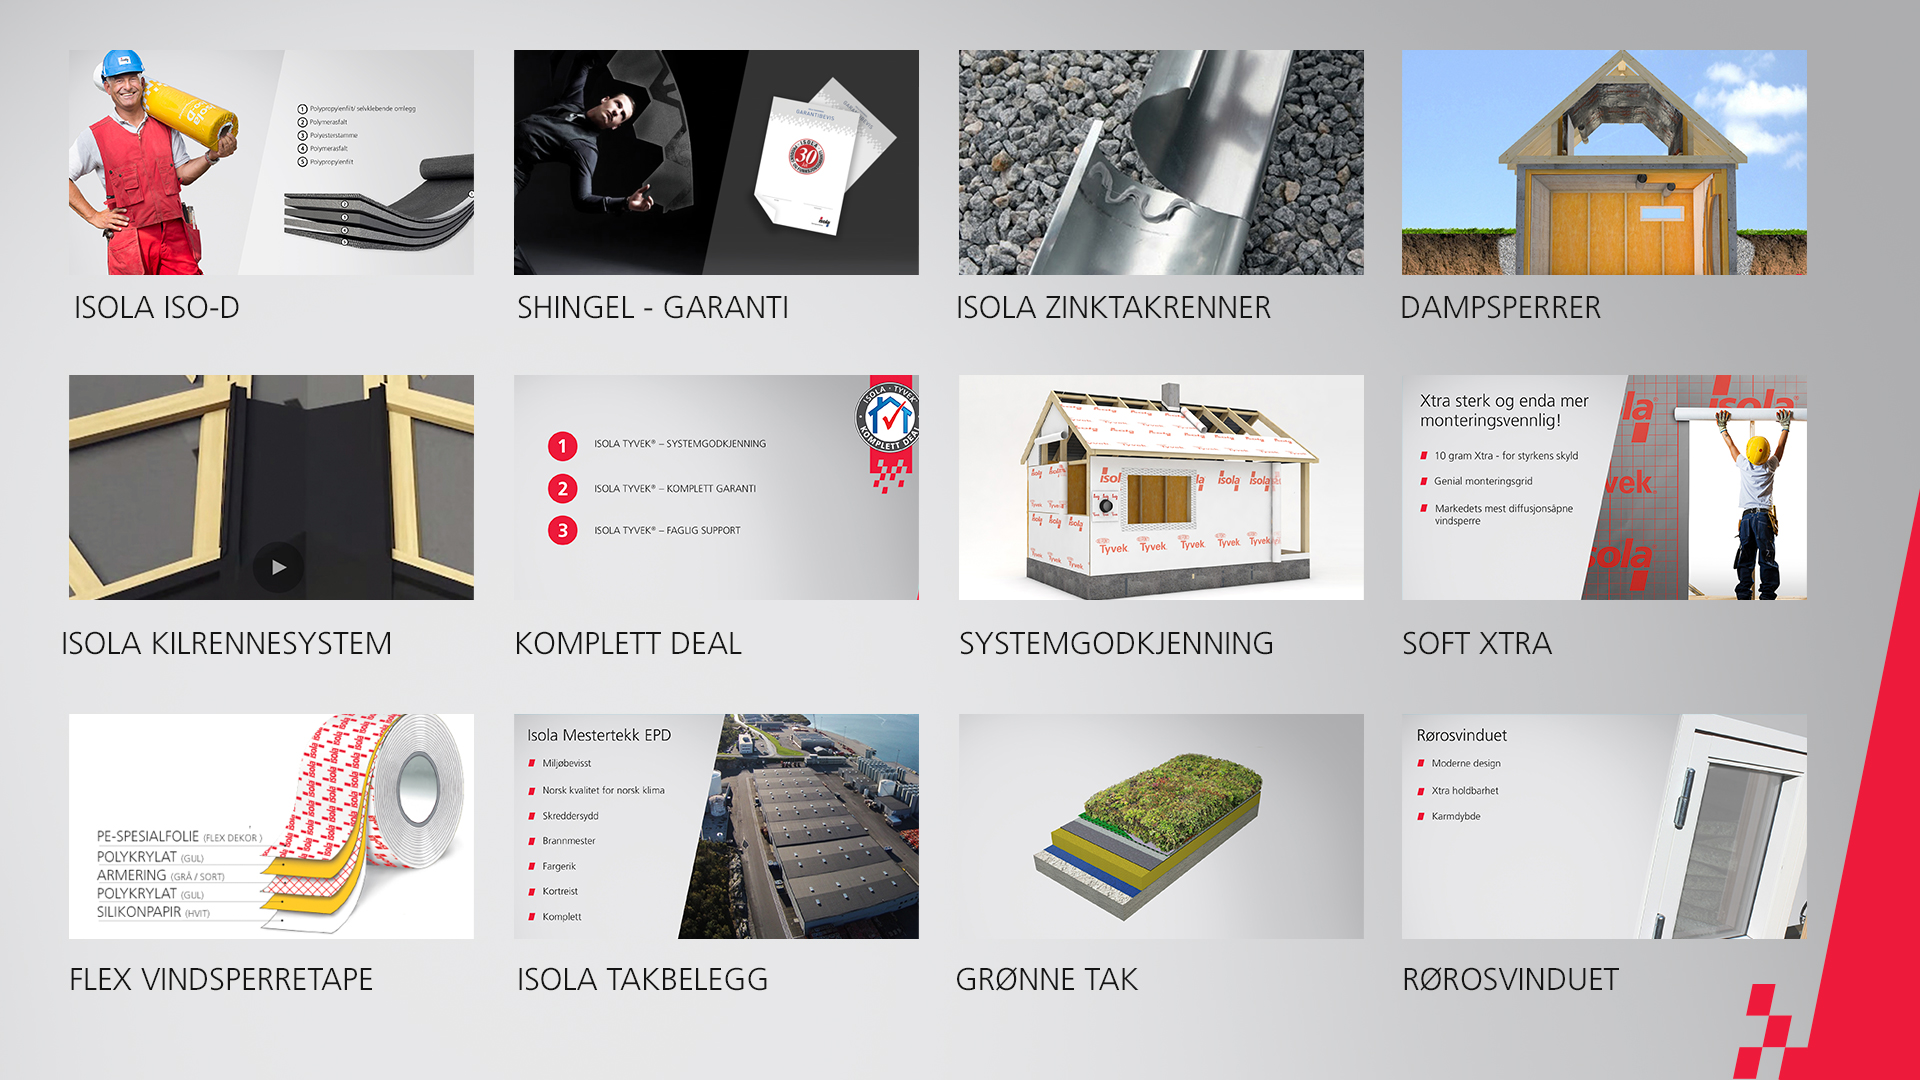
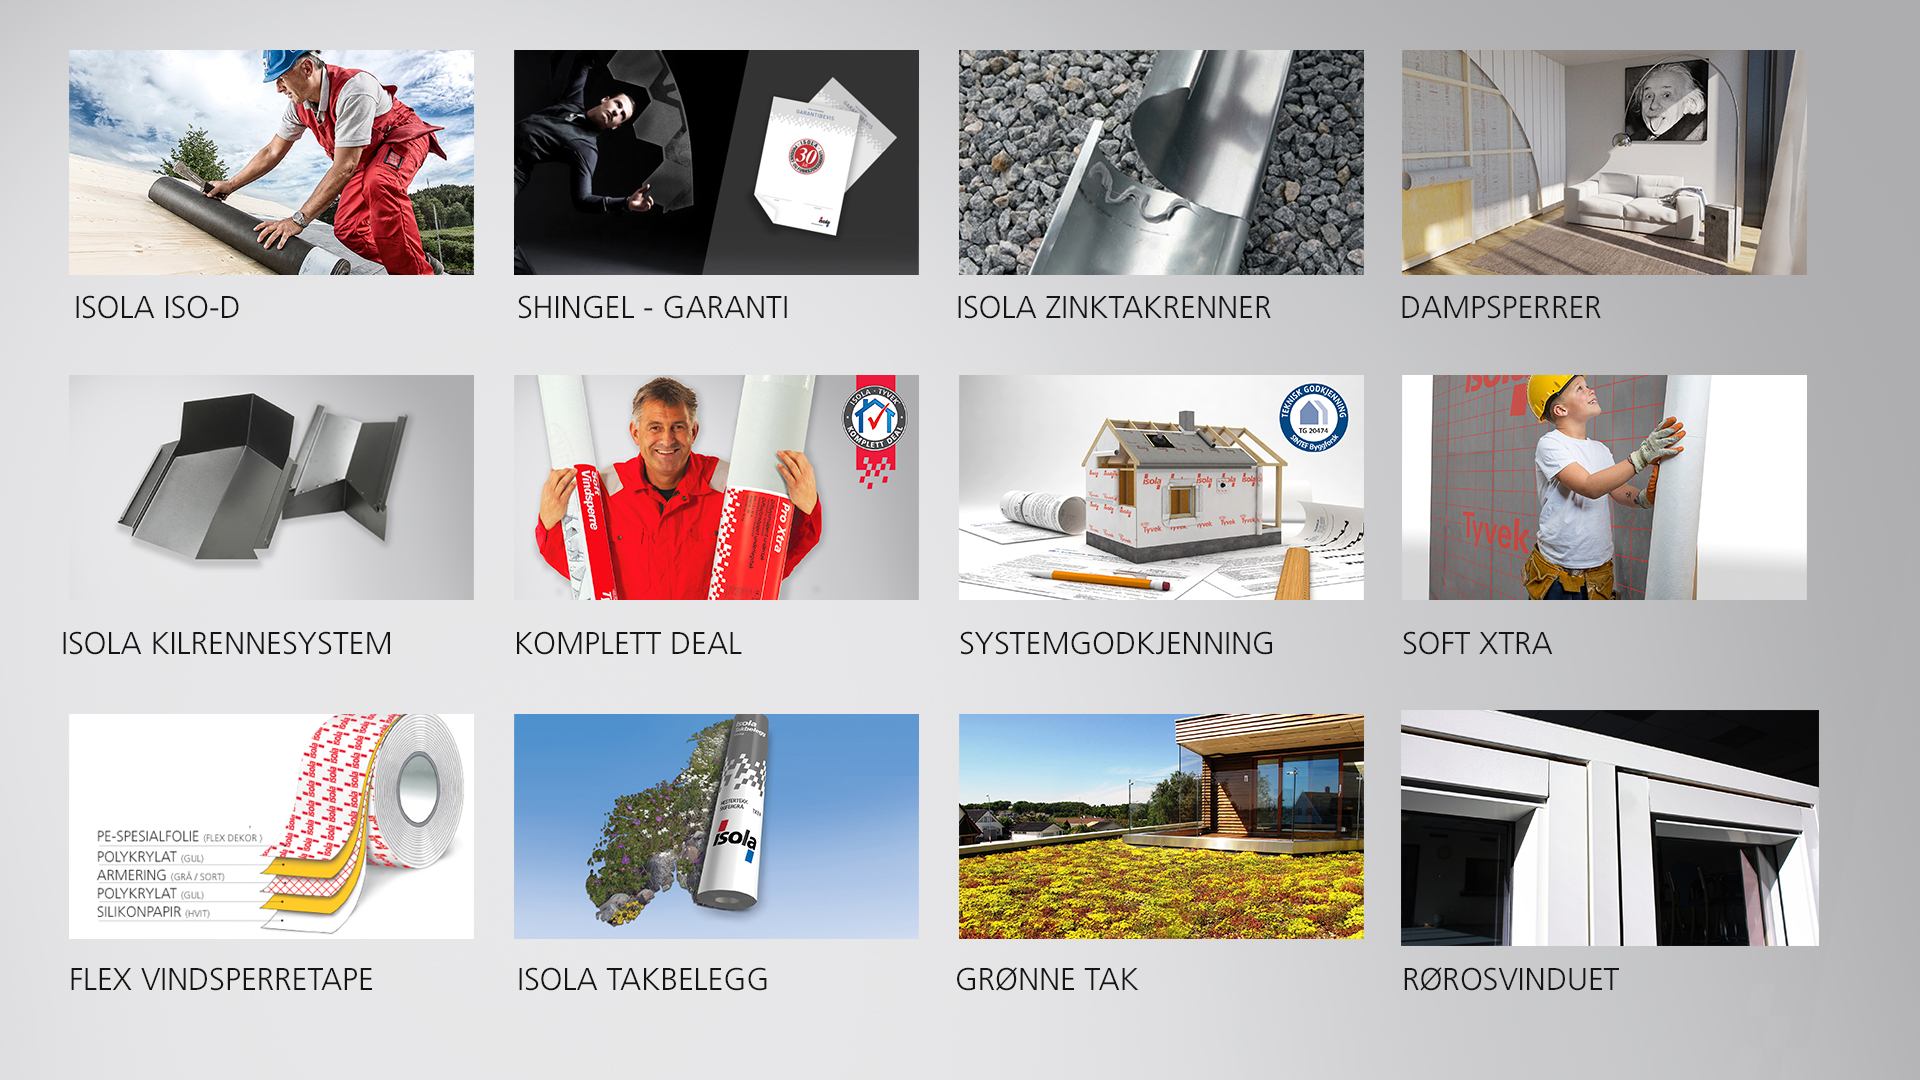
Thomas update

diff --git a/presentation/systemgodkjenning.jsx b/presentation/systemgodkjenning.jsx
@@ -16,10 +16,10 @@ const images = {
     takmansjett: require("./systemgodkjenning/Systemgodkjenning_2_4_takmansjett.jpg"),
     rims: require("./systemgodkjenning/Systemgodkjenning_2_5_rims.jpg"),
     soft: require("./systemgodkjenning/Systemgodkjenning_2_6_1_soft.jpg"),
-    uv: require("./systemgodkjenning/Systemgodkjenning_2_6_2_UV.jpg"),
+    tape: require("./systemgodkjenning/Systemgodkjenning_2_5_tape.jpg")
 };
 
-preloader([images.svillemembran, images.flexwrap, images.takmansjett, images.rims, images.soft, images.uv]);
+preloader([images.svillemembran, images.flexwrap, images.takmansjett, images.rims, images.soft, images.tape]);
 
 
 class Images extends React.Component {
@@ -33,9 +33,10 @@ class Images extends React.Component {
                 <Deck transition={[ "slide"]} progress="none" base="/systemgodkjenning/" transitionDuration={800}>
 				    <Slide bgImage={images.svillemembran} id="svillemembran"/>
 				    <Slide bgImage={images.flexwrap} id="flexwrap" />
+				    <Slide bgImage={images.takmansjett} id="takmansjett" />
 				    <Slide bgImage={images.rims} id="rims" />
 				    <Slide bgImage={images.soft} id="soft" />
-				    <Slide bgImage={images.soft} id="uv" />
+				    <Slide bgImage={images.tape} id="tape" />
 
                 </Deck>
             </div>

diff --git a/presentation/menu.jsx b/presentation/menu.jsx
@@ -14,15 +14,27 @@ const images = {
 };
 
 const links = [
-    {x:470, y:490, link:"/komplettdeal/0"},
-    {x:270, y:198, link:"/images/isod"},
-    {x:280, y:490, link:"/images/kilrenne"},
-    {x:1590, y:490, link:"/images/softxtra"},
-    {x:1140, y:180, link:"/images/zink"},
-    {x:1850, y:1020, link:"/nyheter"}
+    {x:270, y:160, link:"/images/isod"},
+    {x:270, y:490, link:"/images/kilrenne"},
+    {x:270, y:840, link:"/images/tape"},
+
+    {x:710, y:160, link:"/images/shingel"},
+    {x:710, y:490, link:"/komplettdeal/0"},
+    {x:710, y:840, link:"/takbelegg/0"},
+
+    {x:1160, y:160, link:"/images/zink"},
+    {x:1160, y:490, link:"/systemhus/0"},
+    {x:1160, y:840, link:"/gronnetak/0"},
+
+
+    {x:1600, y:160, link:"/dampsperrer/0"},
+    {x:1600, y:490, link:"/images/softxtra"},
+    {x:1600, y:840, link:"/rorosvinduet/0"},
+
+
 ]; 
 
-preloader([images.city, images.kat]);
+preloader([images.oversikt]);
 
 
 class Menu extends React.Component {

diff --git a/presentation/systemhus.jsx b/presentation/systemhus.jsx
@@ -14,12 +14,12 @@ const images = {
 };
 
 const links = [
-    {x:1330, y:720, link:"/systemgodkjenning/svillemembran"},
-    {x:884, y:194, link:"/systemgodkjenning/flexwrap"},
-    {x:1330, y:720, link:"/systemgodkjenning/takmansjett"},
-    {x:638, y:413, link:"/systemgodkjenning/rims"},
-    {x:438, y:720, link:"/vindsperrer/0"},
-    {x:1330, y:720, link:"/systemgodkjenning/soft"}   
+    {x:1410, y:790, link:"/systemgodkjenning/svillemembran"},
+    {x:860, y:220, link:"/systemgodkjenning/flexwrap"},
+    {x:670, y:280, link:"/systemgodkjenning/takmansjett"},
+    {x:575, y:390, link:"/systemgodkjenning/rims"},
+    {x:1153, y:680, link:"/vindsperrer/0"},
+    {x:334, y:622, link:"/systemgodkjenning/tape"}
 ]; 
 
 preloader([images.oversikt]);

diff --git a/presentation/images.jsx b/presentation/images.jsx
@@ -17,7 +17,7 @@ const images = {
     shingel: require("./shingel/Shingel_2.jpg")
 };
 
-preloader([images.isod, images.kilrenne, images.softxtra, images.zink]);
+preloader([images.isod, images.kilrenne, images.softxtra, images.zink, images.shingel]);
 
 
 class Images extends React.Component {
